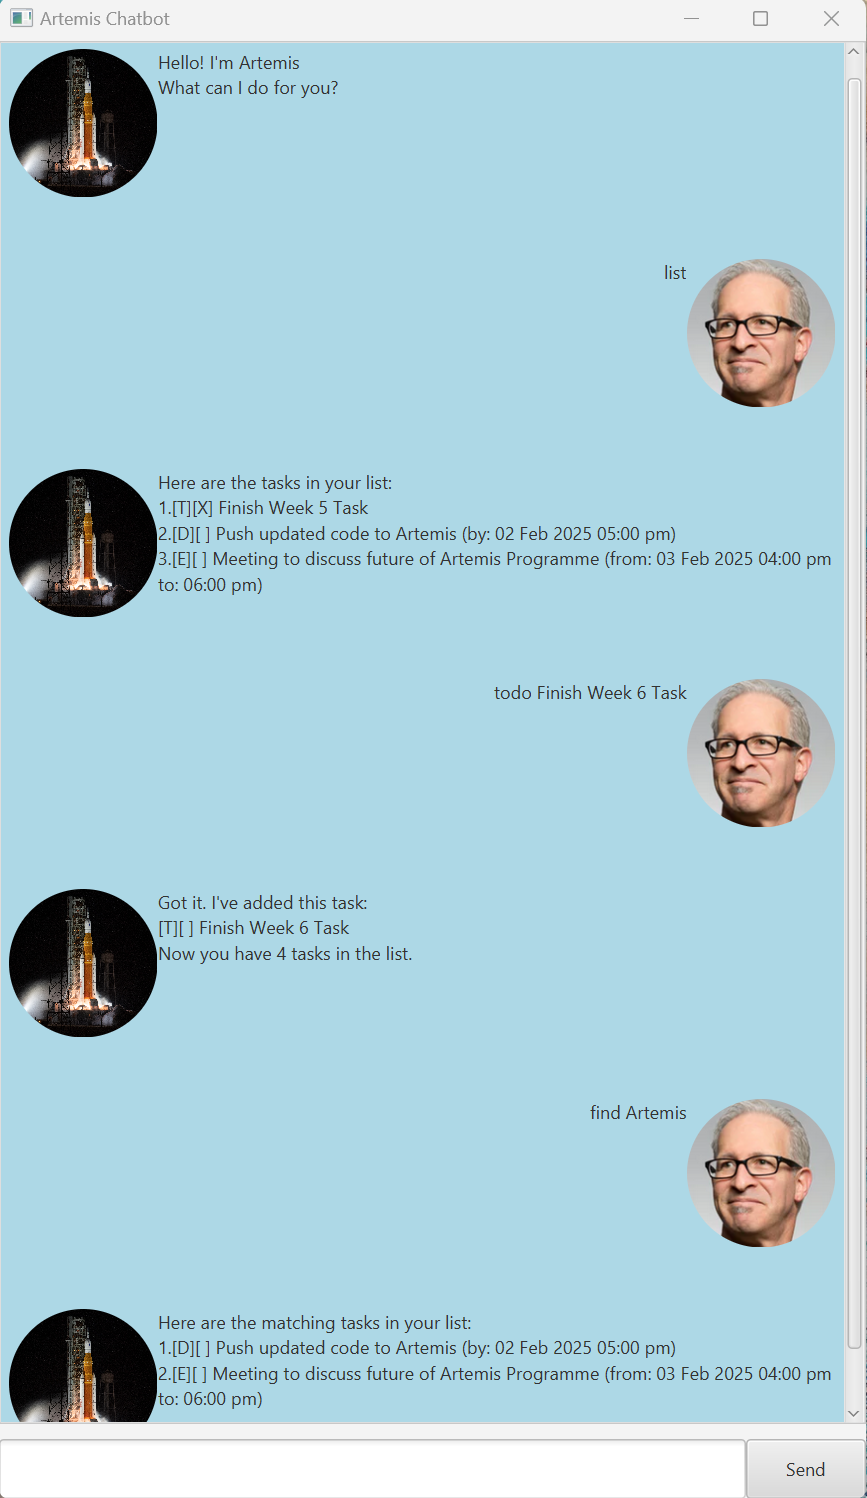
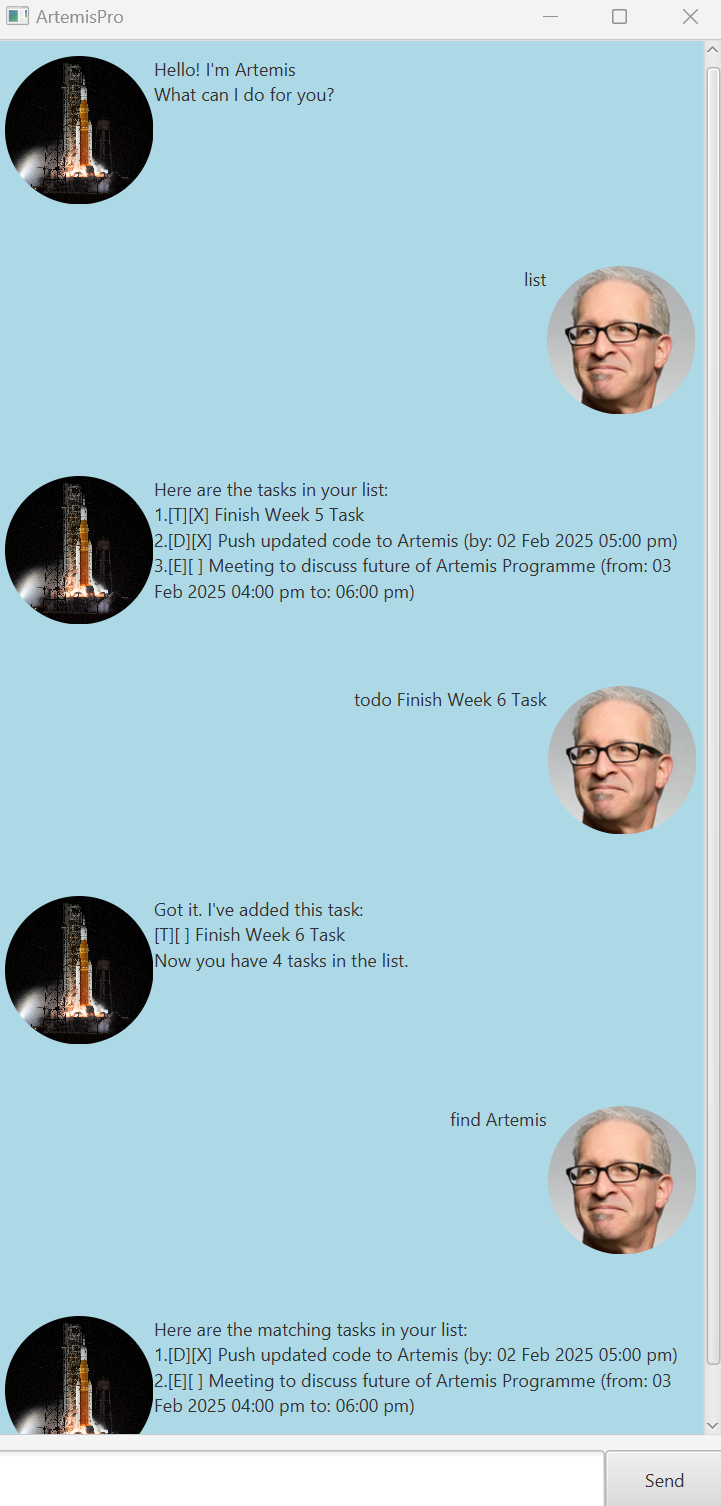
Add more information to User Guide

diff --git a/src/main/java/artemis/ui/Main.java b/src/main/java/artemis/ui/Main.java
@@ -22,7 +22,7 @@ public class Main extends Application {
             AnchorPane ap = fxmlLoader.load();
             Scene scene = new Scene(ap);
             stage.setScene(scene);
-            stage.setTitle("Artemis Chatbot");
+            stage.setTitle("ArtemisPro");
             stage.setMinWidth(400);
             stage.setMinHeight(600);
             fxmlLoader.<MainWindow>getController().setArtemis(artemis);  // inject the Artemis instance

diff --git a/docs/README.md b/docs/README.md
@@ -2,33 +2,194 @@
 
 ## Introduction
 ArtemisPro is a task management bot that helps you remember tasks so we can get back to the moon again.
-It's, text-based, lightweight and very easy to learn and use.
+It's text-based, lightweight and very easy to learn and use.
 
 It allows you to manage tasks by listing, adding, marking, unmarking, deleting, finding and sorting tasks!
-It has "memory" so your data will persists even after closing the app!
+It has persistent-storage so your data is preserved even after closing the app!
 
 ## Sample GUI Screenshots
 ![Ui.png](Ui.png)
 
-## Adding deadlines
+## Adding Todo
 
-// Describe the action and its outcome.
+You can add a new Todo task by typing a command with a specific format. The Todo task will be added to your task list.
 
-// Give examples of usage
+**Command Syntax:**
 
-Example: `keyword (optional arguments)`
+`todo <todo name>`
 
-// A description of the expected outcome goes here
+**Example:**
 
+`todo Finish Week 5 Task`
+
+**Expected Outcome:**
+The Todo task, "Finish Week 5 Task" will be added to your list of task. The expected output is as shown below:
 ```
-expected output
+Got it. I've added this task:
+[T][ ] Finish Week 5 Task
+Now you have 1 tasks in the list.
 ```
 
-## Feature ABC
+## Adding Deadline
 
-// Feature details
+You can add a new Deadline task by typing a command with a specific format. The Deadline task will be added to your task list.
 
+**Command Syntax:**
 
-## Feature XYZ
+`deadline <deadline name> /by <YYYY-MM-DD> <HH:MM>`
 
-// Feature details
+**Example:**
+
+`deadline Push updated code to Artemis /by 2025-02-02 17:00`
+
+**Expected Outcome:**
+The Deadline task, "Push updated code to Artemis" will be added to your list of task. The expected output is as shown below:
+```
+Got it. I've added this task:
+[D][ ] Push updated code to Artemis (by: 02 Feb 2025 05:00 pm)
+Now you have 1 tasks in the list.
+```
+
+## Adding Events
+
+You can add a new Event task by typing a command with a specific format. The Event task will be added to your task list.
+
+**Command Syntax:**
+
+`event <event name> /from <YYYY-MM-DD> <HH:MM> /to <HH:MM>`
+
+**Example:**
+
+`event Meeting to discuss future of Artemis Programme /from 2025-02-03 16:00 /to 18:00`
+
+**Expected Outcome:**
+The Event task, "Meeting to discuss future of Artemis Programme" will be added to your list of task. The expected output is as shown below:
+```
+Got it. I've added this task:
+[E][ ] Meeting to discuss future of Artemis Programme (from: 03 Feb 2025 04:00 pm to: 06:00 pm)
+Now you have 1 tasks in the list.
+```
+
+## List All Tasks
+
+You can list all tasks by simply using the `list` command.
+
+**Command Syntax:**
+
+`list`
+
+**Example:**
+
+`list`
+
+**Expected Outcome:**
+All tasks will be listed. The expected output is as shown below:
+```
+Here are the tasks in your list:
+1.[T][X] Finish Week 5 Task
+2.[D][ ] Push updated code to Artemis (by: 02 Feb 2025 05:00 pm)
+3.[E][ ] Meeting to discuss future of Artemis Programme (from: 02 Feb 2025 04:00 pm to: 06:00 pm)
+```
+
+## Mark task
+
+You can mark a task as done by simply using the `mark` command.
+
+**Command Syntax:**
+
+`mark <task number>`
+
+**Example:**
+
+`mark 1`
+
+**Expected Outcome:**
+The selected task will be mark as done. The expected output is as shown below:
+```
+Nice! I've marked this task as done:
+[T][X] Finish Week 5 Task
+```
+
+## Unmark task
+
+You can unmark a task as not done by simply using the `unmark` command.
+
+**Command Syntax:**
+
+`unmark <task number>`
+
+**Example:**
+
+`unmark 1`
+
+**Expected Outcome:**
+The selected task will be mark as not done. The expected output is as shown below:
+```
+OK, I've marked this task as not done yet:
+[T][] Finish Week 5 Task
+```
+
+## Deleting task
+
+You can delete a task by simply using the `delete` command.
+
+**Command Syntax:**
+
+`delete <task number>`
+
+**Example:**
+
+`delete 1`
+
+**Expected Outcome:**
+The selected task will be deleted. The expected output is as shown below:
+```
+Noted, I've removed this task:
+[T][] Finish Week 5 Task
+Now you have 3 tasks in the list.
+```
+
+## Finding task
+
+You can find a task by simply using the `find` command.
+
+**Command Syntax:**
+
+`find <keyword>`
+
+**Example:**
+
+`find artemis`
+
+**Expected Outcome:**
+The selected task will be deleted. The expected output is as shown below:
+```
+Here are the matching tasks in your list:
+1.[D][X] Push updated code to Artemis (by: 02 Feb 2025 05:00 pm)
+2.[E][ ] Meeting to discuss future of Artemis Programme (from: 03 Feb 2025 04:00 pm to: 06:00 pm)
+```
+
+## Sorting task
+
+You can sort a task by simply using the `sort` command.
+
+**Command Syntax:**
+
+`sort <name/date>`
+
+**Example:**
+
+`sort date`
+
+**Expected Outcome:**
+The tasks will be sorted by name or date, depending on which is selected. The expected output is as shown below:
+```
+Here are the sorted tasks in your list:
+1.[D][X] Push updated code to Artemis (by: 02 Feb 2025 05:00 pm)
+2.[E][ ] Meeting to discuss future of Artemis Programme (from: 03 Feb 2025 04:00 pm to: 06:00 pm)
+3.[T][X] Finish Week 5 Task
+4.[T][ ] Finish Week 6 Task
+```
+
+## Other commands
+* **Exit command**: Use `bye` to end the conversation.
